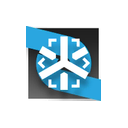
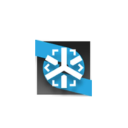
新增部分遗物图片

Changed region(s): [[0.1875, 0.1875, 0.8125, 0.8125]]

diff --git a/src/main/java/nearlmod/relics/KnightFiction.java b/src/main/java/nearlmod/relics/KnightFiction.java
@@ -22,8 +22,8 @@ public class KnightFiction extends CustomRelic {
     public static final RelicStrings relicStrings = CardCrawlGame.languagePack.getRelicStrings(ID);
     public static final String NAME = relicStrings.NAME;
     public static final String[] DESCRIPTIONS = relicStrings.DESCRIPTIONS;
-    public static final Texture IMG = new Texture("images/relics/lighthouse.png");
-    public static final Texture IMG_OUTLINE = new Texture("images/relics/lighthouse_p.png");
+    public static final Texture IMG = new Texture("images/relics/knightfiction.png");
+    public static final Texture IMG_OUTLINE = new Texture("images/relics/knightfiction_p.png");
     private final HashMap<AbstractCard.CardType, Integer> playedCount = new HashMap<>();
     public static HashSet<AbstractCard.CardType> freeToPlayType = new HashSet<>();
     public KnightFiction() {

diff --git a/src/main/java/nearlmod/relics/PegasusHalo.java b/src/main/java/nearlmod/relics/PegasusHalo.java
@@ -16,8 +16,8 @@ public class PegasusHalo extends CustomRelic {
     public static final RelicStrings relicStrings = CardCrawlGame.languagePack.getRelicStrings(ID);
     public static final String NAME = relicStrings.NAME;
     public static final String[] DESCRIPTIONS = relicStrings.DESCRIPTIONS;
-    public static final Texture IMG = new Texture("images/relics/cureup.png");
-    public static final Texture IMG_OUTLINE = new Texture("images/relics/cureup_p.png");
+    public static final Texture IMG = new Texture("images/relics/pegasushalo.png");
+    public static final Texture IMG_OUTLINE = new Texture("images/relics/pegasushalo_p.png");
     public PegasusHalo() {
         super(ID, IMG, IMG_OUTLINE, RelicTier.BOSS, LandingSound.FLAT);
         this.counter = 0;
